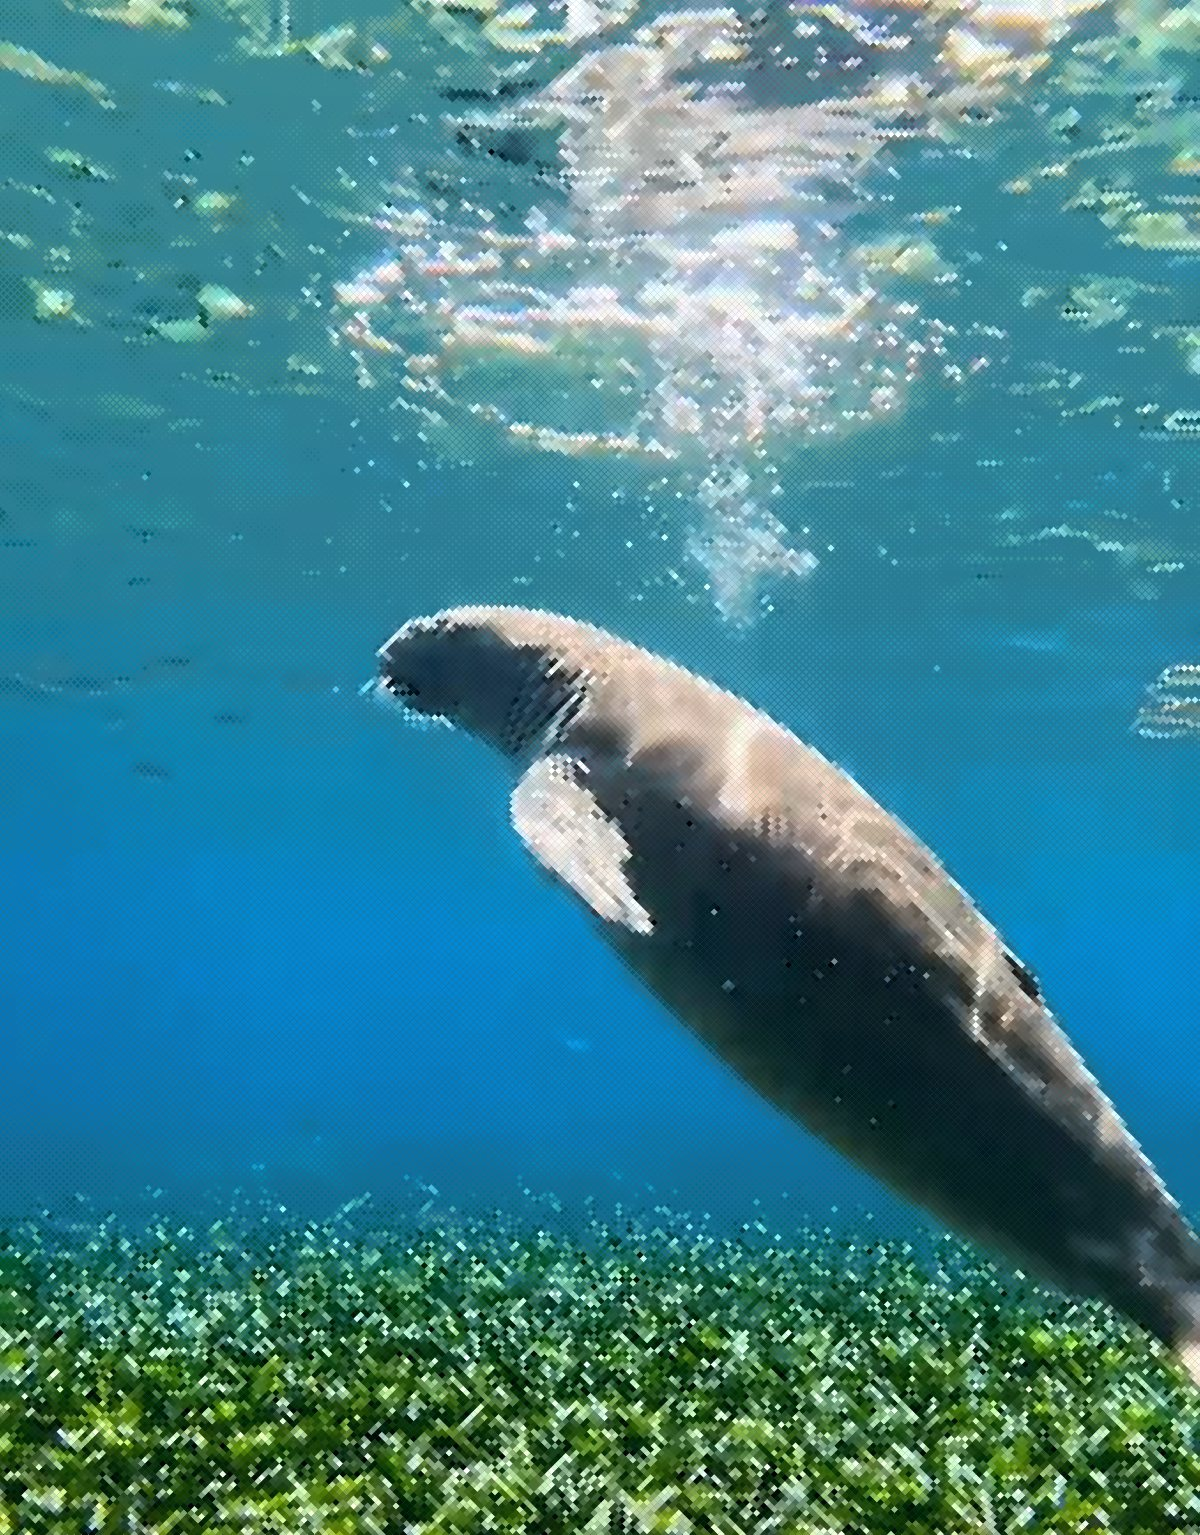
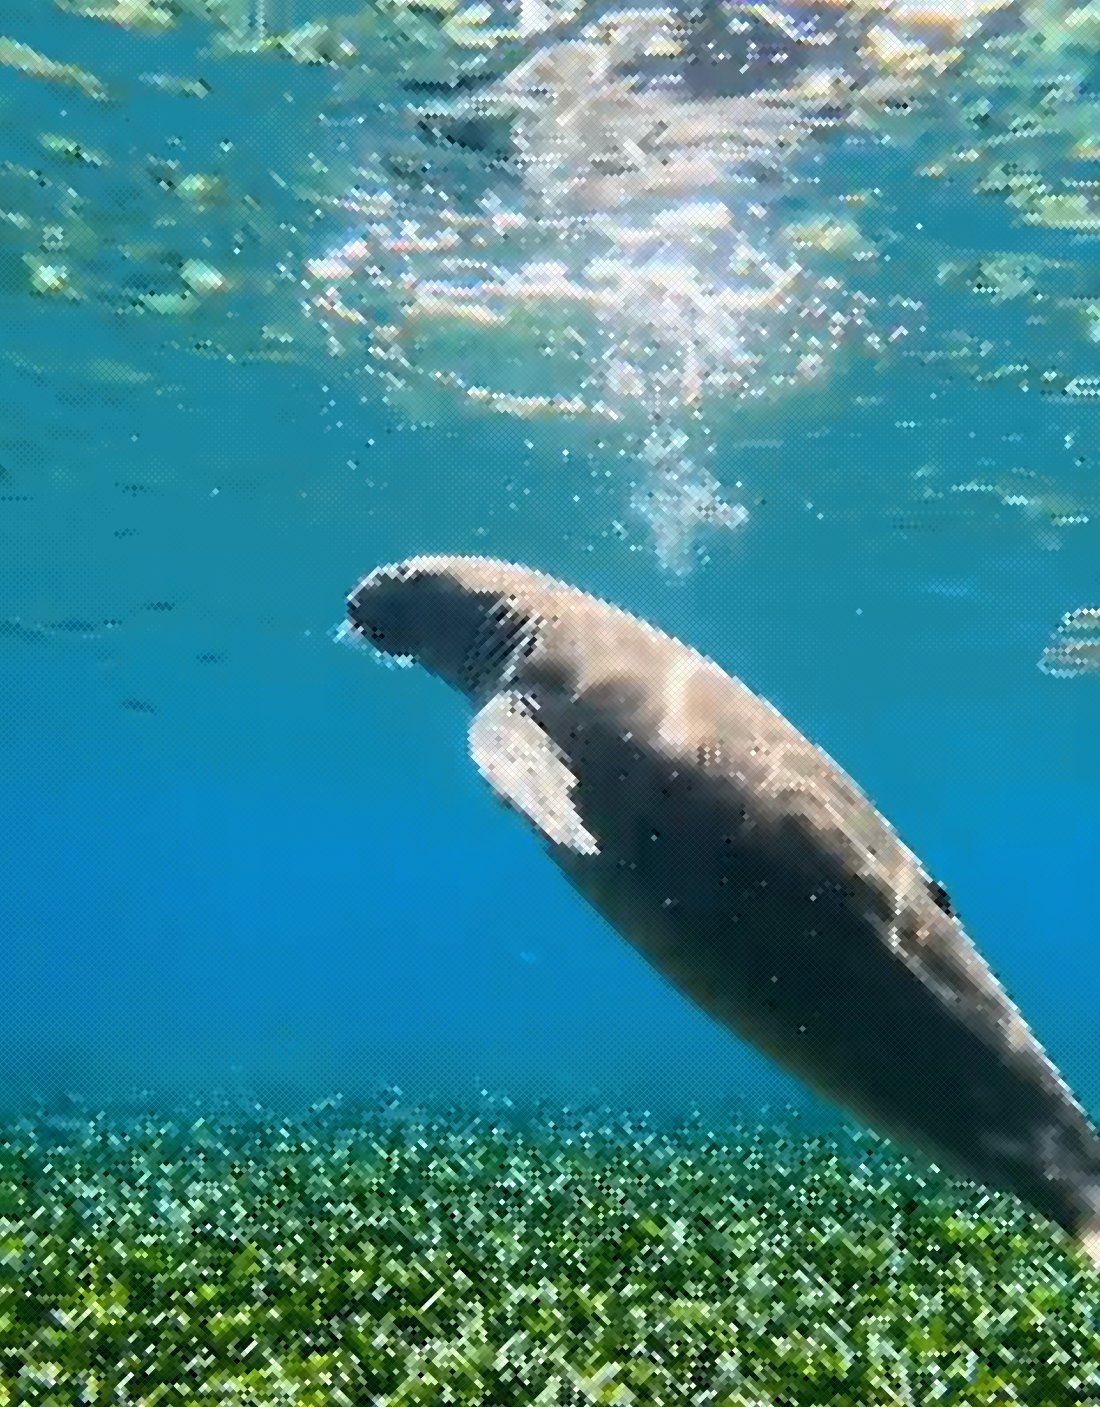
Flatten the page colour so the hero actually blends, drop the caption
A gradient page can never agree with a gradient baked into an image: one runs
over the viewport, the other over the image, so their scales and offsets differ
and the picture always reads as a slightly wrong rectangle no matter which
colours are chosen. That was the mismatch.

Rendering the halftone on transparency fixes it by construction -- there is
then only one gradient, the page's -- but the alpha channel costs ~900KB at
any quality or palette size, because the expense is tens of thousands of hard
dot edges, not colour depth. Quantising to 48 colours changed nothing.

So: one flat colour, #1b88a1, taken as the median of this frame's own water
(median rather than mean, so the animal doesn't drag it), baked into the
halftone as its background and painted as the page. Flat on flat cannot
disagree. What variation remains is the water's own depth, which is what the
feathered edges are there to dissolve. 348KB as a JPEG.

Contrast gain up to 5.0 so more of the water column cancels into the page.

Claude-Session: https://claude.ai/code/session_01VBc86PgBvhRDCuv7SVnhuK

diff --git a/src/water/test.jsx b/src/water/test.jsx
@@ -15,14 +15,18 @@ import '../index.css';
 // cancels to nothing. The animal, the bubbles, the surface sparkle and the
 // seagrass are what's left — which means the image has no edge and needs no
 // frame. It doesn't sit on the page; it is the page.
-const SEA_TOP = '#3a8b94';
-const SEA_DEEP = '#005399';
+// One flat colour, sampled as the median of this exact frame's water, and baked
+// into the halftone as its background too. A gradient page can never agree with
+// a gradient baked into an image: one runs over the viewport, the other over the
+// image, so their scales and offsets differ and the picture always reads as a
+// slightly wrong rectangle. Flat on flat cannot disagree.
+const SEA = '#1b88a1';
 
 const Hero = () => (
   <main
     className="min-h-screen w-full"
     style={{
-      background: `linear-gradient(to bottom, ${SEA_TOP} 0%, ${SEA_DEEP} 100%)`,
+      background: SEA,
       fontFamily: 'Newsreader, Georgia, serif',
       color: '#f2f6f7',
     }}
@@ -71,8 +75,6 @@ const Hero = () => (
       </div>
 
       <div className="md:col-span-6 md:col-start-7 relative">
-        {/* No mask, no border, no aspect box. The halftone's own background is
-            the page gradient, so the footage already ends in nothing. */}
         {/* A still, not a loop.
             The screen is fixed to the page while the footage moves through it,
             so every cell flickers as the content under it shifts — a halftone
@@ -96,11 +98,6 @@ const Hero = () => (
             maskComposite: 'intersect',
           }}
         />
-        <p className="mt-3 flex items-baseline gap-3 font-mono text-[10.5px] tracking-wide text-white/45">
-          <span className="italic font-sans text-[12px] text-white/60">Dugong dugon</span>
-          <span className="h-px flex-1 bg-white/20" />
-          <span>GULF OF BAHRAIN</span>
-        </p>
       </div>
     </div>
   </main>
